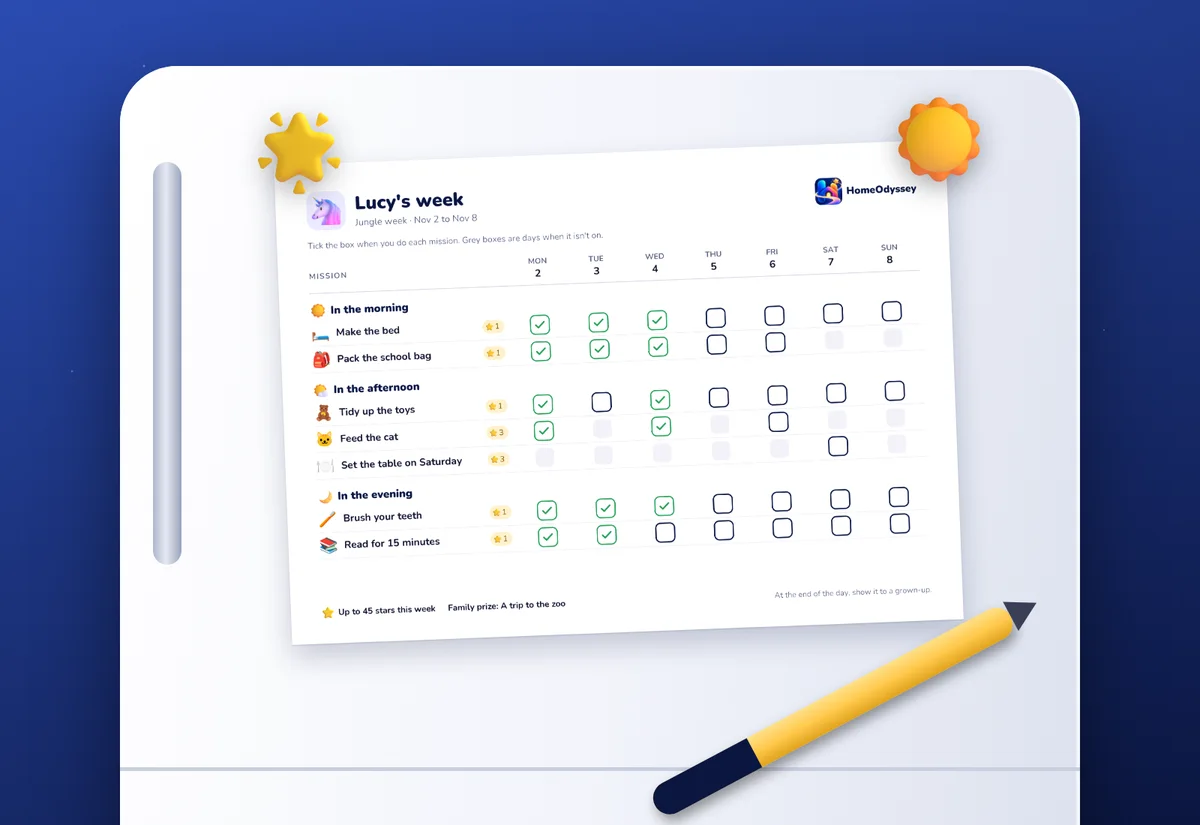
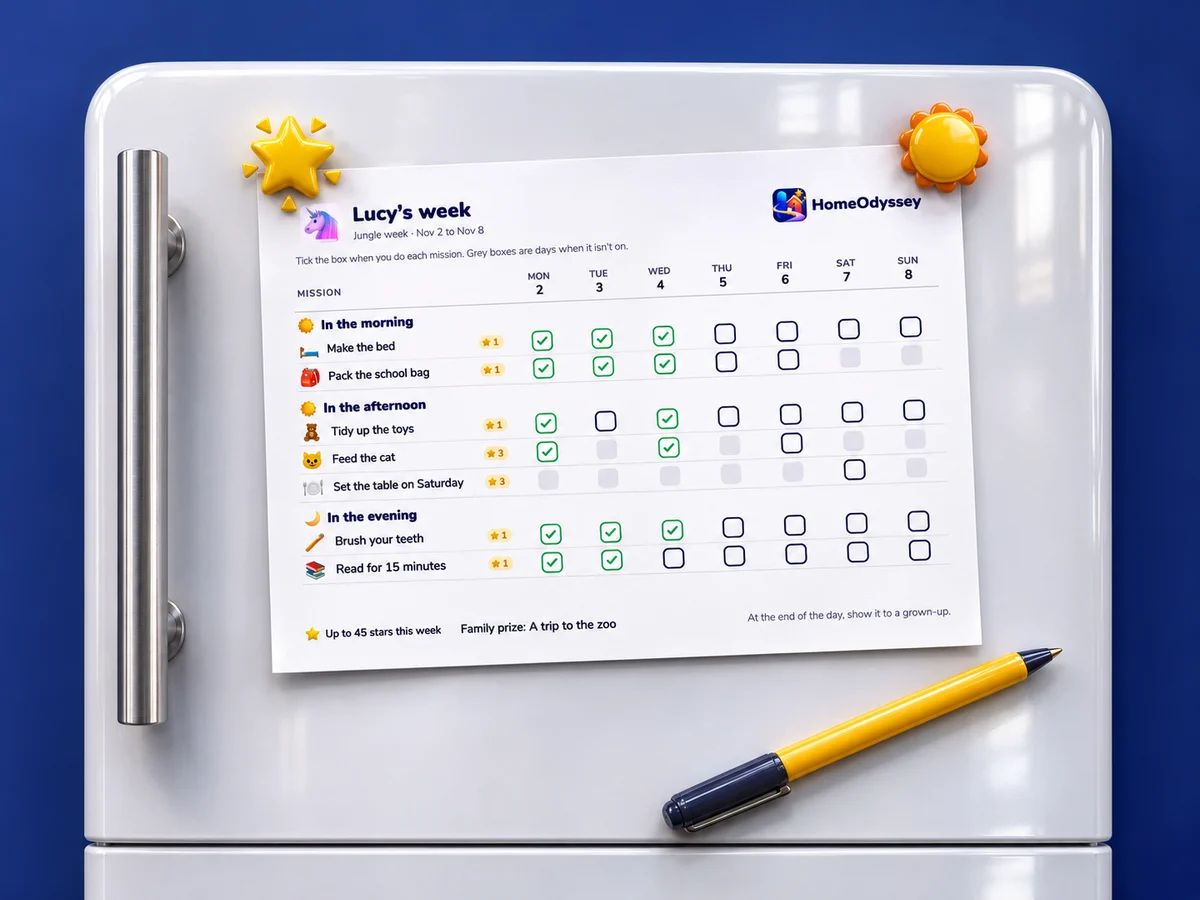
Web: sección de la hoja en papel, más arriba y con la foto de la nevera

diff --git a/index.html b/index.html
@@ -67,6 +67,23 @@
     </div>
   </section>
 
+  <section class="seccion papel" id="papel">
+    <div class="envoltura papel-grid">
+      <img class="papel-imagen" src="/assets/img/es/hoja-papel.webp" alt="Hoja de la semana impresa y pegada en una nevera, con las misiones de la mañana, la tarde y la noche" loading="lazy" width="1200" height="900">
+      <div class="papel-texto">
+        <span class="etiqueta">En el móvil o en papel</span>
+        <h2>Tus peques no necesitan usar pantallas si no quieres</h2>
+        <p class="papel-entrada">Cada casa tiene sus normas con las pantallas, y HomeOdyssey se adapta a la tuya. Tú organizas la semana en la app y ellos pueden vivirla en la puerta de la nevera.</p>
+        <ol class="papel-pasos">
+          <li><span class="emoji" aria-hidden="true">🖨</span><div><h3>Su hoja, lista para imprimir</h3><p>Una página por peque, con sus misiones de la mañana, la tarde y la noche, las estrellas de cada una y el premio de la familia.</p></div></li>
+          <li><span class="emoji" aria-hidden="true">✏</span><div><h3>La marcan con un boli</h3><p>Sin contraseñas ni cargadores: hacen la misión y tachan su casilla. Es su hoja, y la ven cada vez que abren la nevera.</p></div></li>
+          <li><span class="emoji" aria-hidden="true">⭐</span><div><h3>Tú la pasas a la app en un minuto</h3><p>Marcas lo que han hecho y sus estrellas, rachas y medallas cuentan igual que si lo hubieran hecho en el móvil.</p></div></li>
+        </ol>
+        <p class="papel-nota"><strong>¿Prefieres que usen el móvil o la tablet de casa?</strong> También se puede: entran en su perfil, con PIN si quieres, y tú vuelves al modo adulto con tu huella o Face ID. Y si tienen su propio móvil, lo conectas una vez con un código. La hoja está incluida en el plan gratis.</p>
+      </div>
+    </div>
+  </section>
+
   <section class="seccion" id="como-funciona">
     <div class="envoltura">
       <div class="cabeza">
@@ -152,22 +169,6 @@
           </div>
           <div class="movil"><img src="/assets/img/es/p08-perfil.webp" alt="Perfil de un peque con nivel 7, racha de 9 semanas y medallas" loading="lazy" width="720" height="1600"></div>
         </div>
-      </div>
-    </div>
-  </section>
-
-  <section class="seccion" id="papel">
-    <div class="envoltura">
-      <div class="cabeza">
-        <span class="etiqueta">En el móvil o en papel</span>
-        <h2>Tus peques no necesitan usar pantallas si no quieres</h2>
-        <p>Imprime su hoja de la semana, pégala en la nevera y que la marquen con un boli. Luego tú la pasas a la app en un minuto y las estrellas llegan igual.</p>
-      </div>
-      <img class="papel-imagen" src="/assets/img/es/hoja-papel.webp" alt="Hoja de la semana impresa y pegada en una nevera, con las misiones de la mañana, la tarde y la noche" loading="lazy" width="1200" height="825">
-      <div class="formas">
-        <div class="forma"><span class="emoji" aria-hidden="true">📱</span><h3>En el móvil o la tablet de casa</h3><p>Entran en su perfil, con PIN si quieres, y marcan lo que han hecho. Tú vuelves al modo adulto con tu huella, Face ID o tu contraseña.</p></div>
-        <div class="forma"><span class="emoji" aria-hidden="true">📲</span><h3>En su propio móvil o tablet</h3><p>Lo conectas una sola vez con un código. No necesitan email ni cuenta.</p></div>
-        <div class="forma forma-papel"><span class="emoji" aria-hidden="true">🖨</span><h3>En papel</h3><p>Una hoja por peque, con sus misiones de la mañana, la tarde y la noche. Incluida también en el plan gratis.</p></div>
       </div>
     </div>
   </section>

diff --git a/en/index.html b/en/index.html
@@ -67,6 +67,23 @@
     </div>
   </section>
 
+  <section class="seccion papel" id="paper">
+    <div class="envoltura papel-grid">
+      <img class="papel-imagen" src="/assets/img/en/hoja-papel.webp" alt="Printed weekly sheet stuck on a fridge, with morning, afternoon and evening missions" loading="lazy" width="1200" height="900">
+      <div class="papel-texto">
+        <span class="etiqueta">On a phone or on paper</span>
+        <h2>Your kids don't need to use screens if you'd rather they didn't</h2>
+        <p class="papel-entrada">Every home has its own rules about screens, and HomeOdyssey fits yours. You plan the week in the app, and they can live it on the fridge door.</p>
+        <ol class="papel-pasos">
+          <li><span class="emoji" aria-hidden="true">🖨</span><div><h3>Their sheet, ready to print</h3><p>One page per kid, with their morning, afternoon and evening missions, the stars each one is worth and the family prize.</p></div></li>
+          <li><span class="emoji" aria-hidden="true">✏</span><div><h3>They tick it with a pen</h3><p>No passwords, no chargers: they do the mission and tick their box. It's their sheet, and they see it every time they open the fridge.</p></div></li>
+          <li><span class="emoji" aria-hidden="true">⭐</span><div><h3>You copy it into the app in a minute</h3><p>Tick what they've done, and their stars, streaks and badges count just as if they'd done it on a phone.</p></div></li>
+        </ol>
+        <p class="papel-nota"><strong>Rather use a phone or the family tablet?</strong> That works too: they open their profile, with a PIN if you like, and you switch back to grown-up mode with your fingerprint or Face ID. If they have their own phone, connect it once with a code. The sheet is included in the free plan.</p>
+      </div>
+    </div>
+  </section>
+
   <section class="seccion" id="how-it-works">
     <div class="envoltura">
       <div class="cabeza">
@@ -152,22 +169,6 @@
           </div>
           <div class="movil"><img src="/assets/img/en/p08-perfil.webp" alt="A kid's profile with level 7, a 9-week streak and badges" loading="lazy" width="720" height="1600"></div>
         </div>
-      </div>
-    </div>
-  </section>
-
-  <section class="seccion" id="paper">
-    <div class="envoltura">
-      <div class="cabeza">
-        <span class="etiqueta">On a phone or on paper</span>
-        <h2>Your kids don't need to use screens if you'd rather they didn't</h2>
-        <p>Print their weekly sheet, stick it on the fridge and let them tick it with a pen. Then copy it into the app in a minute and the stars arrive just the same.</p>
-      </div>
-      <img class="papel-imagen" src="/assets/img/en/hoja-papel.webp" alt="Printed weekly sheet stuck on a fridge, with morning, afternoon and evening missions" loading="lazy" width="1200" height="825">
-      <div class="formas">
-        <div class="forma"><span class="emoji" aria-hidden="true">📱</span><h3>On a phone or the family tablet</h3><p>They open their profile, with a PIN if you like, and tick off what they've done. You switch back to grown-up mode with your fingerprint, Face ID or password.</p></div>
-        <div class="forma"><span class="emoji" aria-hidden="true">📲</span><h3>On their own phone or tablet</h3><p>Connect it once with a code. They don't need an email or an account.</p></div>
-        <div class="forma forma-papel"><span class="emoji" aria-hidden="true">🖨</span><h3>On paper</h3><p>One sheet per kid, with their morning, afternoon and evening missions. Included in the free plan too.</p></div>
       </div>
     </div>
   </section>

diff --git a/assets/estilo.css b/assets/estilo.css
@@ -185,10 +185,18 @@ p { margin: 0; }
 
 /* Confianza */
 .confianza { display: grid; grid-template-columns: repeat(4, 1fr); gap: 20px; }
-.formas { display: grid; grid-template-columns: repeat(3, 1fr); gap: 20px; }
-.forma { background: var(--tarjeta); border: 1px solid var(--linea); border-radius: 22px; padding: 28px; }
-.forma-papel { border: 2px solid var(--oro); }
-.papel-imagen { display: block; width: 100%; max-width: 880px; height: auto; margin: 0 auto 40px; border-radius: 28px; box-shadow: 0 24px 60px #0B164033; }
+.papel { background: linear-gradient(180deg, #FFF6E0 0%, var(--fondo) 100%); }
+.papel-grid { display: grid; grid-template-columns: 1.05fr 1fr; gap: 64px; align-items: center; }
+.papel-imagen { display: block; width: 100%; height: auto; border-radius: var(--radio); box-shadow: 0 30px 70px #0B164040; }
+.papel-texto h2 { font-size: clamp(30px, 3.6vw, 42px); font-weight: 900; line-height: 1.1; }
+.papel-entrada { margin-top: 16px; color: var(--suave); font-size: 19px; }
+.papel-pasos { list-style: none; padding: 0; margin: 28px 0 0; display: grid; gap: 18px; }
+.papel-pasos li { display: flex; gap: 16px; align-items: flex-start; }
+.papel-pasos .emoji { flex: none; width: 52px; height: 52px; display: grid; place-items: center; font-size: 28px; background: var(--tarjeta); border: 1px solid var(--linea); border-radius: 16px; }
+.papel-pasos h3 { font-size: 19px; font-weight: 900; }
+.papel-pasos p { color: var(--suave); font-size: 16px; margin-top: 4px; }
+.papel-nota { margin-top: 26px; padding: 18px 20px; background: var(--tarjeta); border: 1px solid var(--linea); border-left: 4px solid var(--oro); border-radius: 16px; color: var(--suave); font-size: 15px; }
+.papel-nota strong { color: var(--texto); }
 .forma .emoji { font-size: 44px; line-height: 1; display: block; margin-bottom: 14px; }
 .forma h3 { font-size: 21px; font-weight: 900; }
 .forma p { color: var(--suave); font-size: 16px; margin-top: 8px; }
@@ -266,7 +274,7 @@ p { margin: 0; }
   .paso-texto { text-align: center; }
   .paso ul { justify-content: center; text-align: left; }
   .confianza { grid-template-columns: 1fr 1fr; }
-  .formas { grid-template-columns: 1fr; }
+  .papel-grid { grid-template-columns: 1fr; gap: 40px; }
   .planes { grid-template-columns: 1fr; }
   .seccion { padding-block: 76px; }
 }
